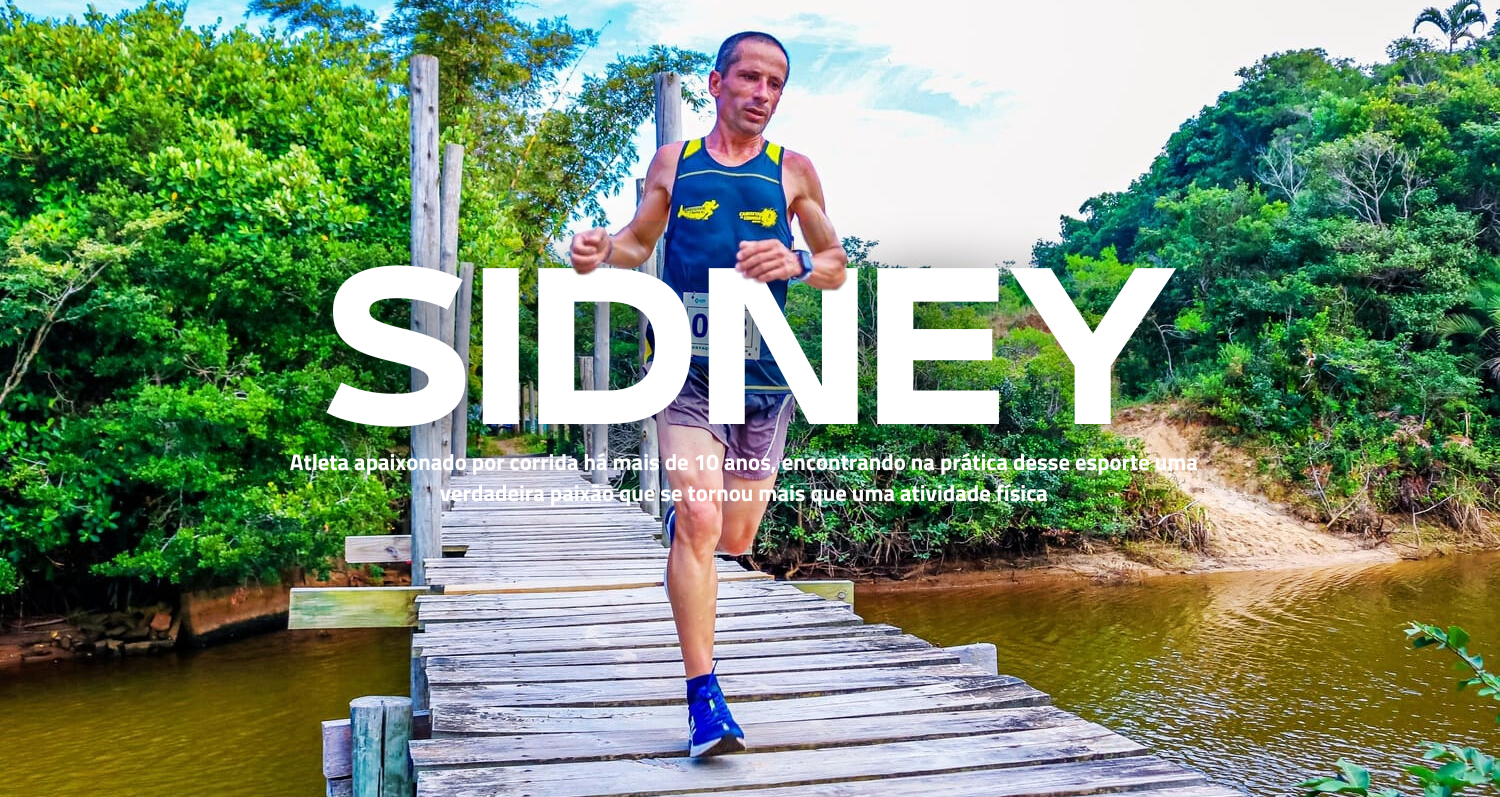
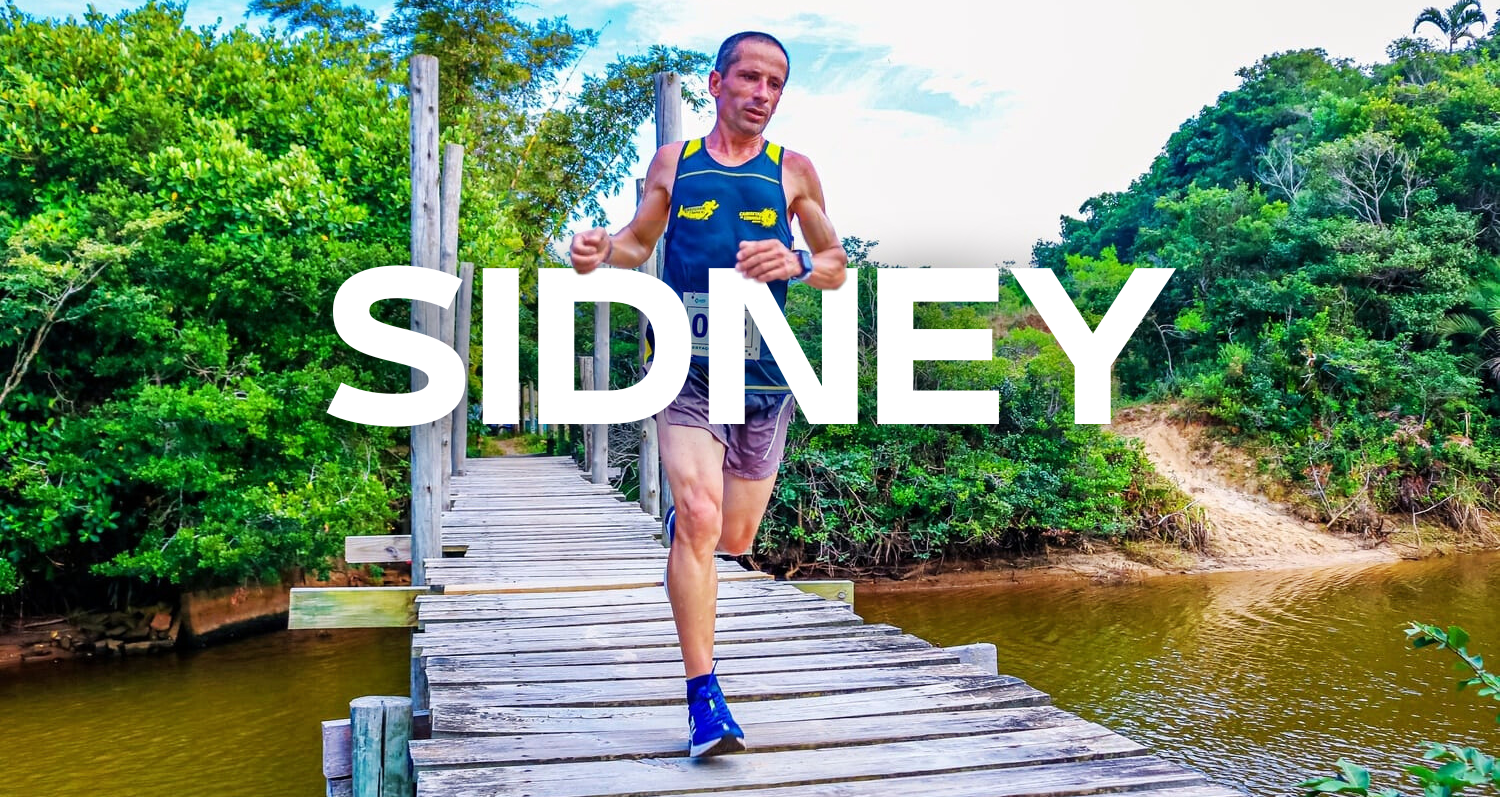
Tirado texto de dificil leitura

Changed region(s): [[0.184, 0.5721, 0.7973, 0.6324]]

diff --git a/src/css/responsive.css b/src/css/responsive.css
@@ -5,13 +5,5 @@
 }
 
 @media screen and (max-width: 850px){
-    .start {
-        background: radial-gradient(68.58% 67.02% at 50% 50%, rgba(0, 0, 0, 0.00) 53.6%, rgba(0, 0, 0, 0.50) 91.75%), url(../img/landspace400x.png), lightgray 50%;
-        background-repeat: no-repeat;
-        background-size: cover;
-    }
-
-    .title-1 {
-        color: red;
-    }
+    
 }
